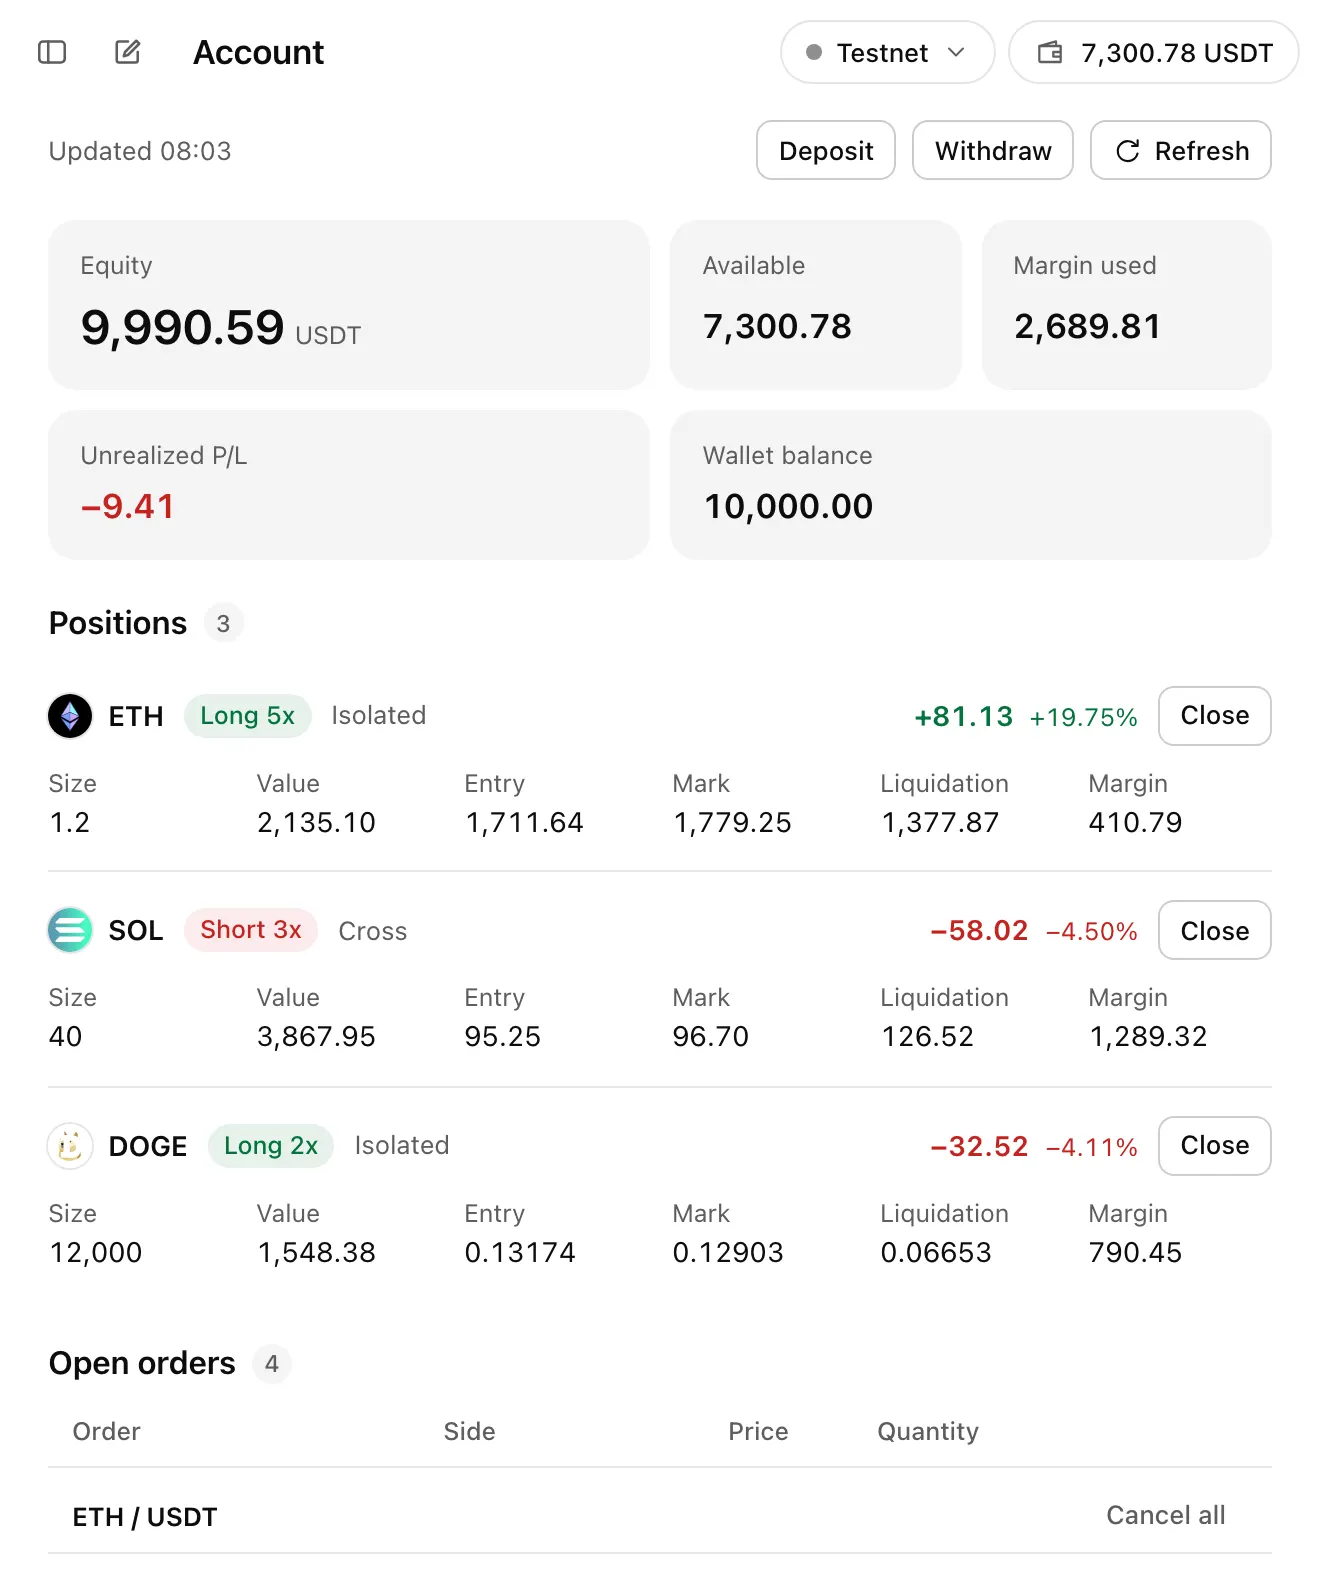
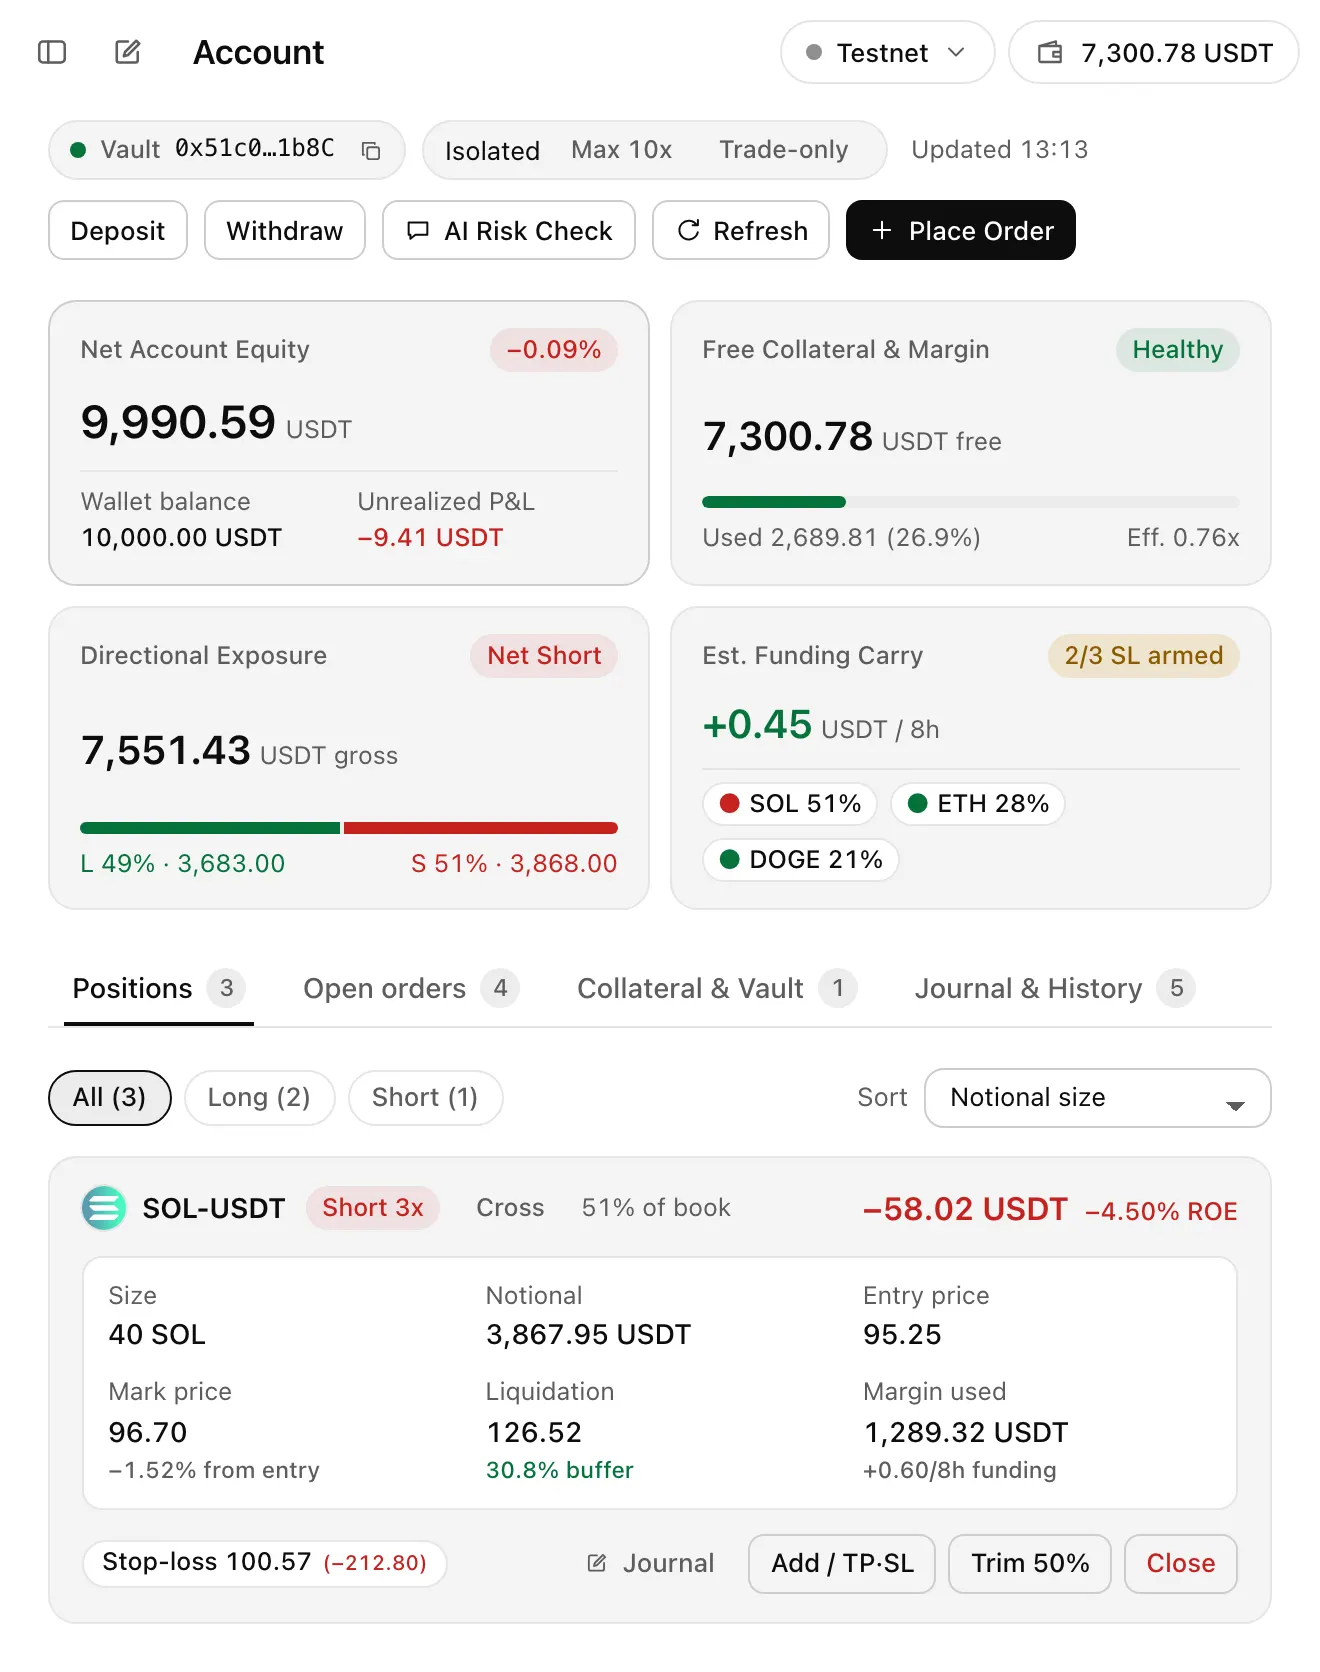
✨ feat(site): show the trading journal and announce 0.8.0
- The markets page describes Account as a portfolio and adds the
  trading journal, with pictures of both from the built-in mock and a
  note that the desktop journal starts empty.
- The safety page lists the trading journal: where it is kept, that it
  is not encrypted, and when it reaches a model.
- The news pages, menus and footer count seven publishers and no longer
  name The Defiant.
- Version 0.8.0 on the chip, the download page and the release history;
  the pictures that showed a long chat title past the sidebar's edge
  are retaken.

diff --git a/site/README.md b/site/README.md
@@ -109,12 +109,12 @@ The Worker's name in the dashboard must be `octoneo`, the name in `wrangler.json
 
 ## Pictures
 
-The screenshots in `src/assets/shots/` are of the app's interface running in a browser against its built-in mock: a fictional account and a fictional model, nothing real. The News page's newsrooms, stories and pictures are the mock's too: invented stories from invented newsrooms, with abstract pictures the mock draws. Each is saved in light and dark as `<name>-<light|dark>-<pixel width>.webp`, and the build turns the dark ones into `<picture>` elements: the site is dark only. It publishes only the pictures a page shows; the light copies and the pictures no page uses stay in the folder for later. Pictures sit in the text column of the feature pages, 760 pixels wide at most. A picture named `<name>-phone` replaces `<name>` on screens up to 640 pixels wide, where a whole window or dialog would shrink its text past reading: it is the same page in a narrow window, which the app lays out for its width. Settings and the order form are taken whole, each dialog at the height of its content.
+The screenshots in `src/assets/shots/` are of the app's interface running in a browser against its built-in mock: a fictional account and a fictional model, nothing real. The News page's newsrooms, stories and pictures are the mock's too: invented stories from invented newsrooms, with abstract pictures the mock draws. So are the entries in the trading journal (`journal`): the interface shows its invented sample trades only in a browser, and the desktop app starts with an empty journal. Captions say these are samples. Each is saved in light and dark as `<name>-<light|dark>-<pixel width>.webp`, and the build turns the dark ones into `<picture>` elements: the site is dark only. It publishes only the pictures a page shows; the light copies and the pictures no page uses stay in the folder for later. Pictures sit in the text column of the feature pages, 760 pixels wide at most. A picture named `<name>-phone` replaces `<name>` on screens up to 640 pixels wide, where a whole window or dialog would shrink its text past reading: it is the same page in a narrow window, which the app lays out for its width. Settings and the order form are taken whole, each dialog at the height of its content. Account and the trading journal end below their second card, and below the first on a phone, with the cards after it hidden.
 
 | Page | Pictures |
 | --- | --- |
 | Assistant | `turn-btc`, `settings-tools` |
-| Markets | `markets`, `market`, `structure`, `tab-book`, `tab-funding`, `tab-technicals`, `tab-watchlist`, `order-form`, `account` |
+| Markets | `markets`, `market`, `structure`, `tab-book`, `tab-funding`, `tab-technicals`, `tab-watchlist`, `order-form`, `account`, `journal` |
 | News | `news-page`, `settings-tools` |
 | Wallet | `wallet-connect`, `wallet-deposit`, `wallet-withdraw` |
 | Safety | `settings-trading` |
